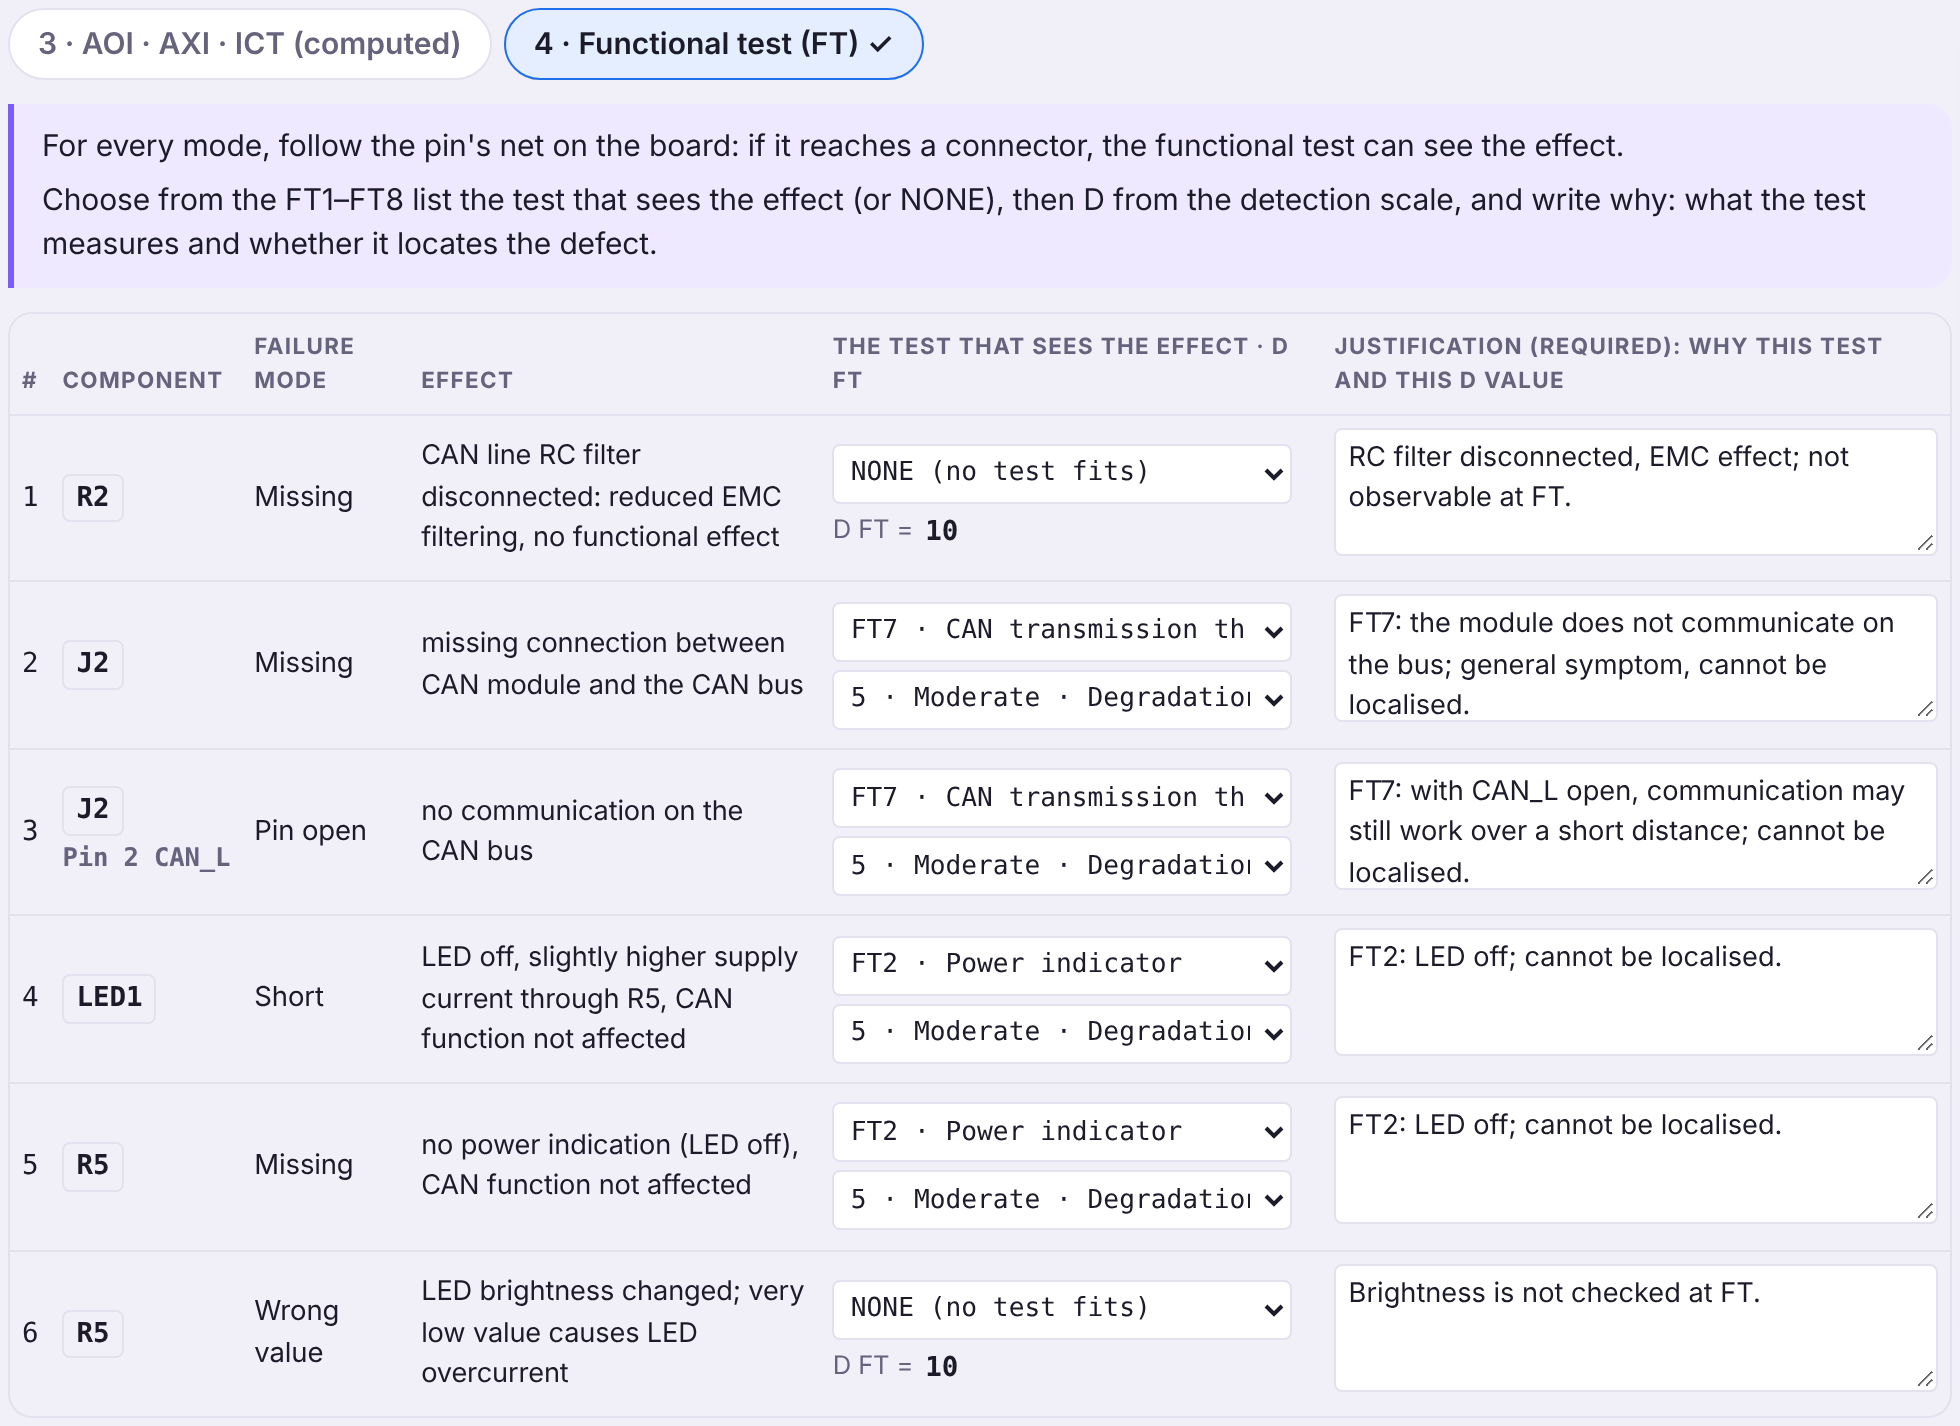
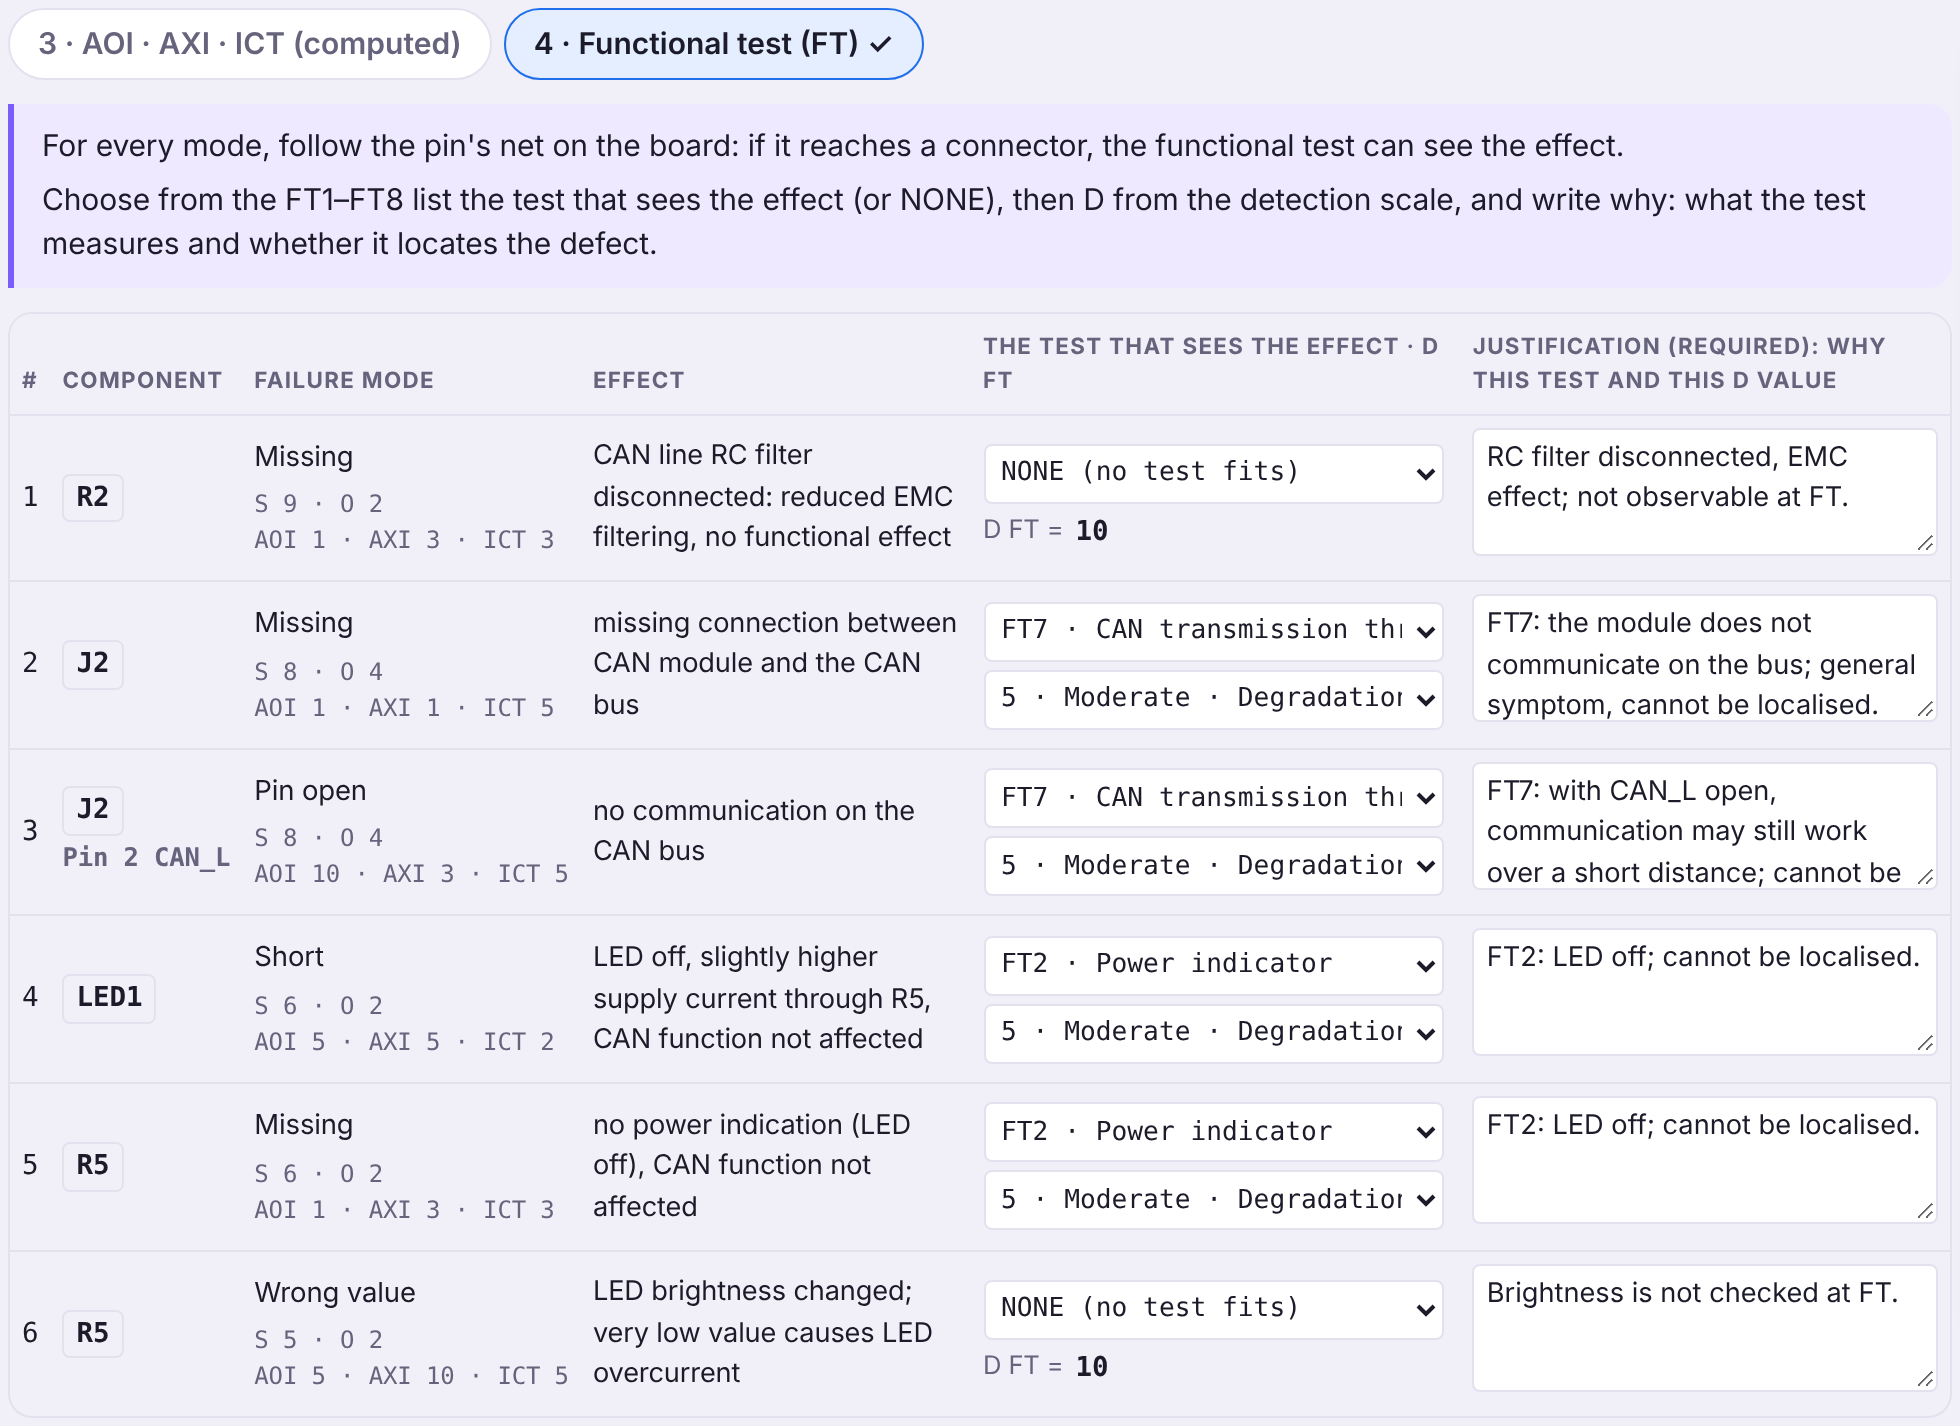
HW TCA: reminder of the values from the previous steps on the O and detection tabs
Claude-Session: https://claude.ai/code/session_015jZV3M7jRAYSoYnq2E89o1

diff --git a/docs/hw/index.html b/docs/hw/index.html
@@ -170,6 +170,7 @@ table.sheet.ftstep .ftd { margin-top: 4px; }
 table.sheet.ftstep td.eff { max-width: 220px; }
 table.sheet.stept th { white-space: normal; min-width: 0; }
 table.sheet.stept td.ref .small { display: block; margin-top: 2px; }
+table.sheet.stept .memo { margin-top: 4px; font-family: var(--font-mono); font-size: 0.75rem; color: var(--muted); white-space: nowrap; }
 table.sheet.ftstep th:last-child { min-width: 200px; }
 .mref { font-family: var(--font-mono); font-weight: 700; border: 1px solid var(--line); border-radius: 4px; background: var(--bg); color: var(--ink); padding: 1px 6px; cursor: pointer; }
 .mref.on { border-color: var(--accent); background: var(--accent-soft); }
@@ -512,7 +513,7 @@ const I18N = {
     nc: "neconectat",
     sheet: "Fișa de analiză", colComp: "Componentă", colMode: "Mod de defectare", colEffect: "Efect", colClass: "Clasă efect", colS: "S", colO: "O",
     colAOI: "AOI", colAXI: "AXI", colICT: "ICT", colFTtest: "Test FT", colFT: "FT · test, D și justificare", colFTnew: "Test FT nou (îmbun.)", colFTd: "D FT", ftNone: "NONE (niciun test nu se potrivește)", ftJustPh: "de ce ai ales testul și valoarea?", tab_s1: "1 · Severitate", tab_s2: "2 · Ocurență", tab_det: "3–4 · Detecție", tab_ap: "5–6 · AP și îmbunătățiri", tab_ra: "7 · Risc rezidual", tab_concl: "8 · Concluzie",
-    tabT_s1: "Severitatea (S)", tabT_s2: "Ocurența (O)", tabT_det: "Detecția (D)", tabT_ap: "Prioritatea (AP) și îmbunătățirile", tabT_ra: "Riscul rezidual", tabT_concl: "Concluzia", stepWord: "Pasul",
+    tabT_s1: "Severitatea (S)", tabT_s2: "Ocurența (O)", tabT_det: "Detecția (D)", tabT_ap: "Prioritatea (AP) și îmbunătățirile", tabT_ra: "Riscul rezidual", tabT_concl: "Concluzia", memoTip: "Valorile alese în pașii anteriori", stepWord: "Pasul",
     subAuto: "3 · AOI · AXI · ICT (calculat)", subFT: "4 · Testul funcțional (FT)",
     h_s1: ["Pentru fiecare mod, citește efectul și alege clasa de efect din tabelul de clase de mai jos; S rezultă din clasă.", "Efectele EMC (filtre, decuplare) sunt E9, chiar dacă funcția nu e afectată."],
     h_s1Demo: "",
@@ -577,7 +578,7 @@ const I18N = {
     nc: "not connected",
     sheet: "Analysis sheet", colComp: "Component", colMode: "Failure mode", colEffect: "Effect", colClass: "Effect class", colS: "S", colO: "O",
     colAOI: "AOI", colAXI: "AXI", colICT: "ICT", colFTtest: "FT test", colFT: "FT · test, D and justification", colFTnew: "New FT test (impr.)", colFTd: "D FT", ftNone: "NONE (no test fits)", ftJustPh: "why did you choose this test and value?", tab_s1: "1 · Severity", tab_s2: "2 · Occurrence", tab_det: "3–4 · Detection", tab_ap: "5–6 · AP and improvements", tab_ra: "7 · Residual risk", tab_concl: "8 · Conclusion",
-    tabT_s1: "Severity (S)", tabT_s2: "Occurrence (O)", tabT_det: "Detection (D)", tabT_ap: "Priority (AP) and improvements", tabT_ra: "Residual risk", tabT_concl: "Conclusion", stepWord: "Step",
+    tabT_s1: "Severity (S)", tabT_s2: "Occurrence (O)", tabT_det: "Detection (D)", tabT_ap: "Priority (AP) and improvements", tabT_ra: "Residual risk", tabT_concl: "Conclusion", memoTip: "Values chosen in the previous steps", stepWord: "Step",
     subAuto: "3 · AOI · AXI · ICT (computed)", subFT: "4 · Functional test (FT)",
     h_s1: ["For every mode, read the effect and choose the effect class from the class table below; S follows from the class.", "EMC effects (filters, decoupling) are E9, even when the function is not affected."],
     h_s1Demo: "",
@@ -805,7 +806,14 @@ function renderAnalysis(view) {
   const dv = (v, why) => '<span class="dv ' + (v === 1 ? "d1" : v === 10 ? "d10" : "dm") + '">' + v + "</span>" + (why ? '<span class="why">' + esc(why) + "</span>" : "");
   const sel = (i, name, opts, val, label) => '<select data-row="' + i + '" data-k="' + name + '" aria-label="' + esc(label || name) + '"' + (val ? "" : ' class="empty"') + '><option value="">' + t("choose") + "</option>" +
     opts.map((o) => { const v = Array.isArray(o) ? o[0] : o; const l = Array.isArray(o) ? o[1] : o; return '<option value="' + esc(v) + '"' + (String(val) === String(v) ? " selected" : "") + ">" + esc(l) + "</option>"; }).join("") + "</select>";
-  const modeCells = (i, k, r) => '<td class="num">' + (k + 1) + '</td><td class="ref"><button type="button" class="mref' + (S.sel === r.m.ref ? " on" : "") + '" data-sel="' + r.m.ref + '" title="' + esc(t("kShow")) + '">' + esc(r.m.ref) + "</button>" + (r.m.pin === "–" ? "" : '<span class="muted small"> ' + esc(r.m.pin) + "</span>") + "</td><td>" + esc(modeTxt(r.m)) + "</td>";
+  const modeCells = (i, k, r) => '<td class="num">' + (k + 1) + '</td><td class="ref"><button type="button" class="mref' + (S.sel === r.m.ref ? " on" : "") + '" data-sel="' + r.m.ref + '" title="' + esc(t("kShow")) + '">' + esc(r.m.ref) + "</button>" + (r.m.pin === "–" ? "" : '<span class="muted small"> ' + esc(r.m.pin) + "</span>") + "</td><td>" + esc(modeTxt(r.m)) + memo(i, r) + "</td>";
+  /* reminder of the values chosen in the previous steps, so they need not be remembered from tab to tab */
+  function memo(i, r) {
+    const u = S.rows[i] || {}, ft = S.detSub === "ft";
+    const lines = tab === "s2" ? [(u.cls || "E–") + " · S " + (r.s || "–")]
+      : tab === "det" ? ["S " + (r.s || "–") + " · O " + (r.o || "–")].concat(ft ? ["AOI " + r.det.aoi + " · AXI " + r.det.axi + " · ICT " + r.det.ict] : []) : [];
+    return lines.length ? '<div class="memo" title="' + esc(t("memoTip")) + '">' + lines.map((l) => "<div>" + l + "</div>").join("") + "</div>" : "";
+  }
   const head = (cols) => "<thead><tr><th>#</th><th>" + t("colComp") + "</th><th>" + t("colMode") + "</th>" + cols.map((c) => "<th>" + c + "</th>").join("") + "</tr></thead>";
   const help = (key) => '<div class="notice stephelp">' + t(key).map((x) => "<p>" + esc(x) + "</p>").join("") + (isDemo() && I18N[LANG][key + "Demo"] !== undefined ? '<p><b>' + esc(t(key + "Demo")) + "</b></p>" : "") + "</div>";
   const ref = (titleKey, html, open) => '<details class="ref"' + (open ? " open" : "") + "><summary>" + esc(t(titleKey)) + "</summary><div>" + html + "</div></details>";
